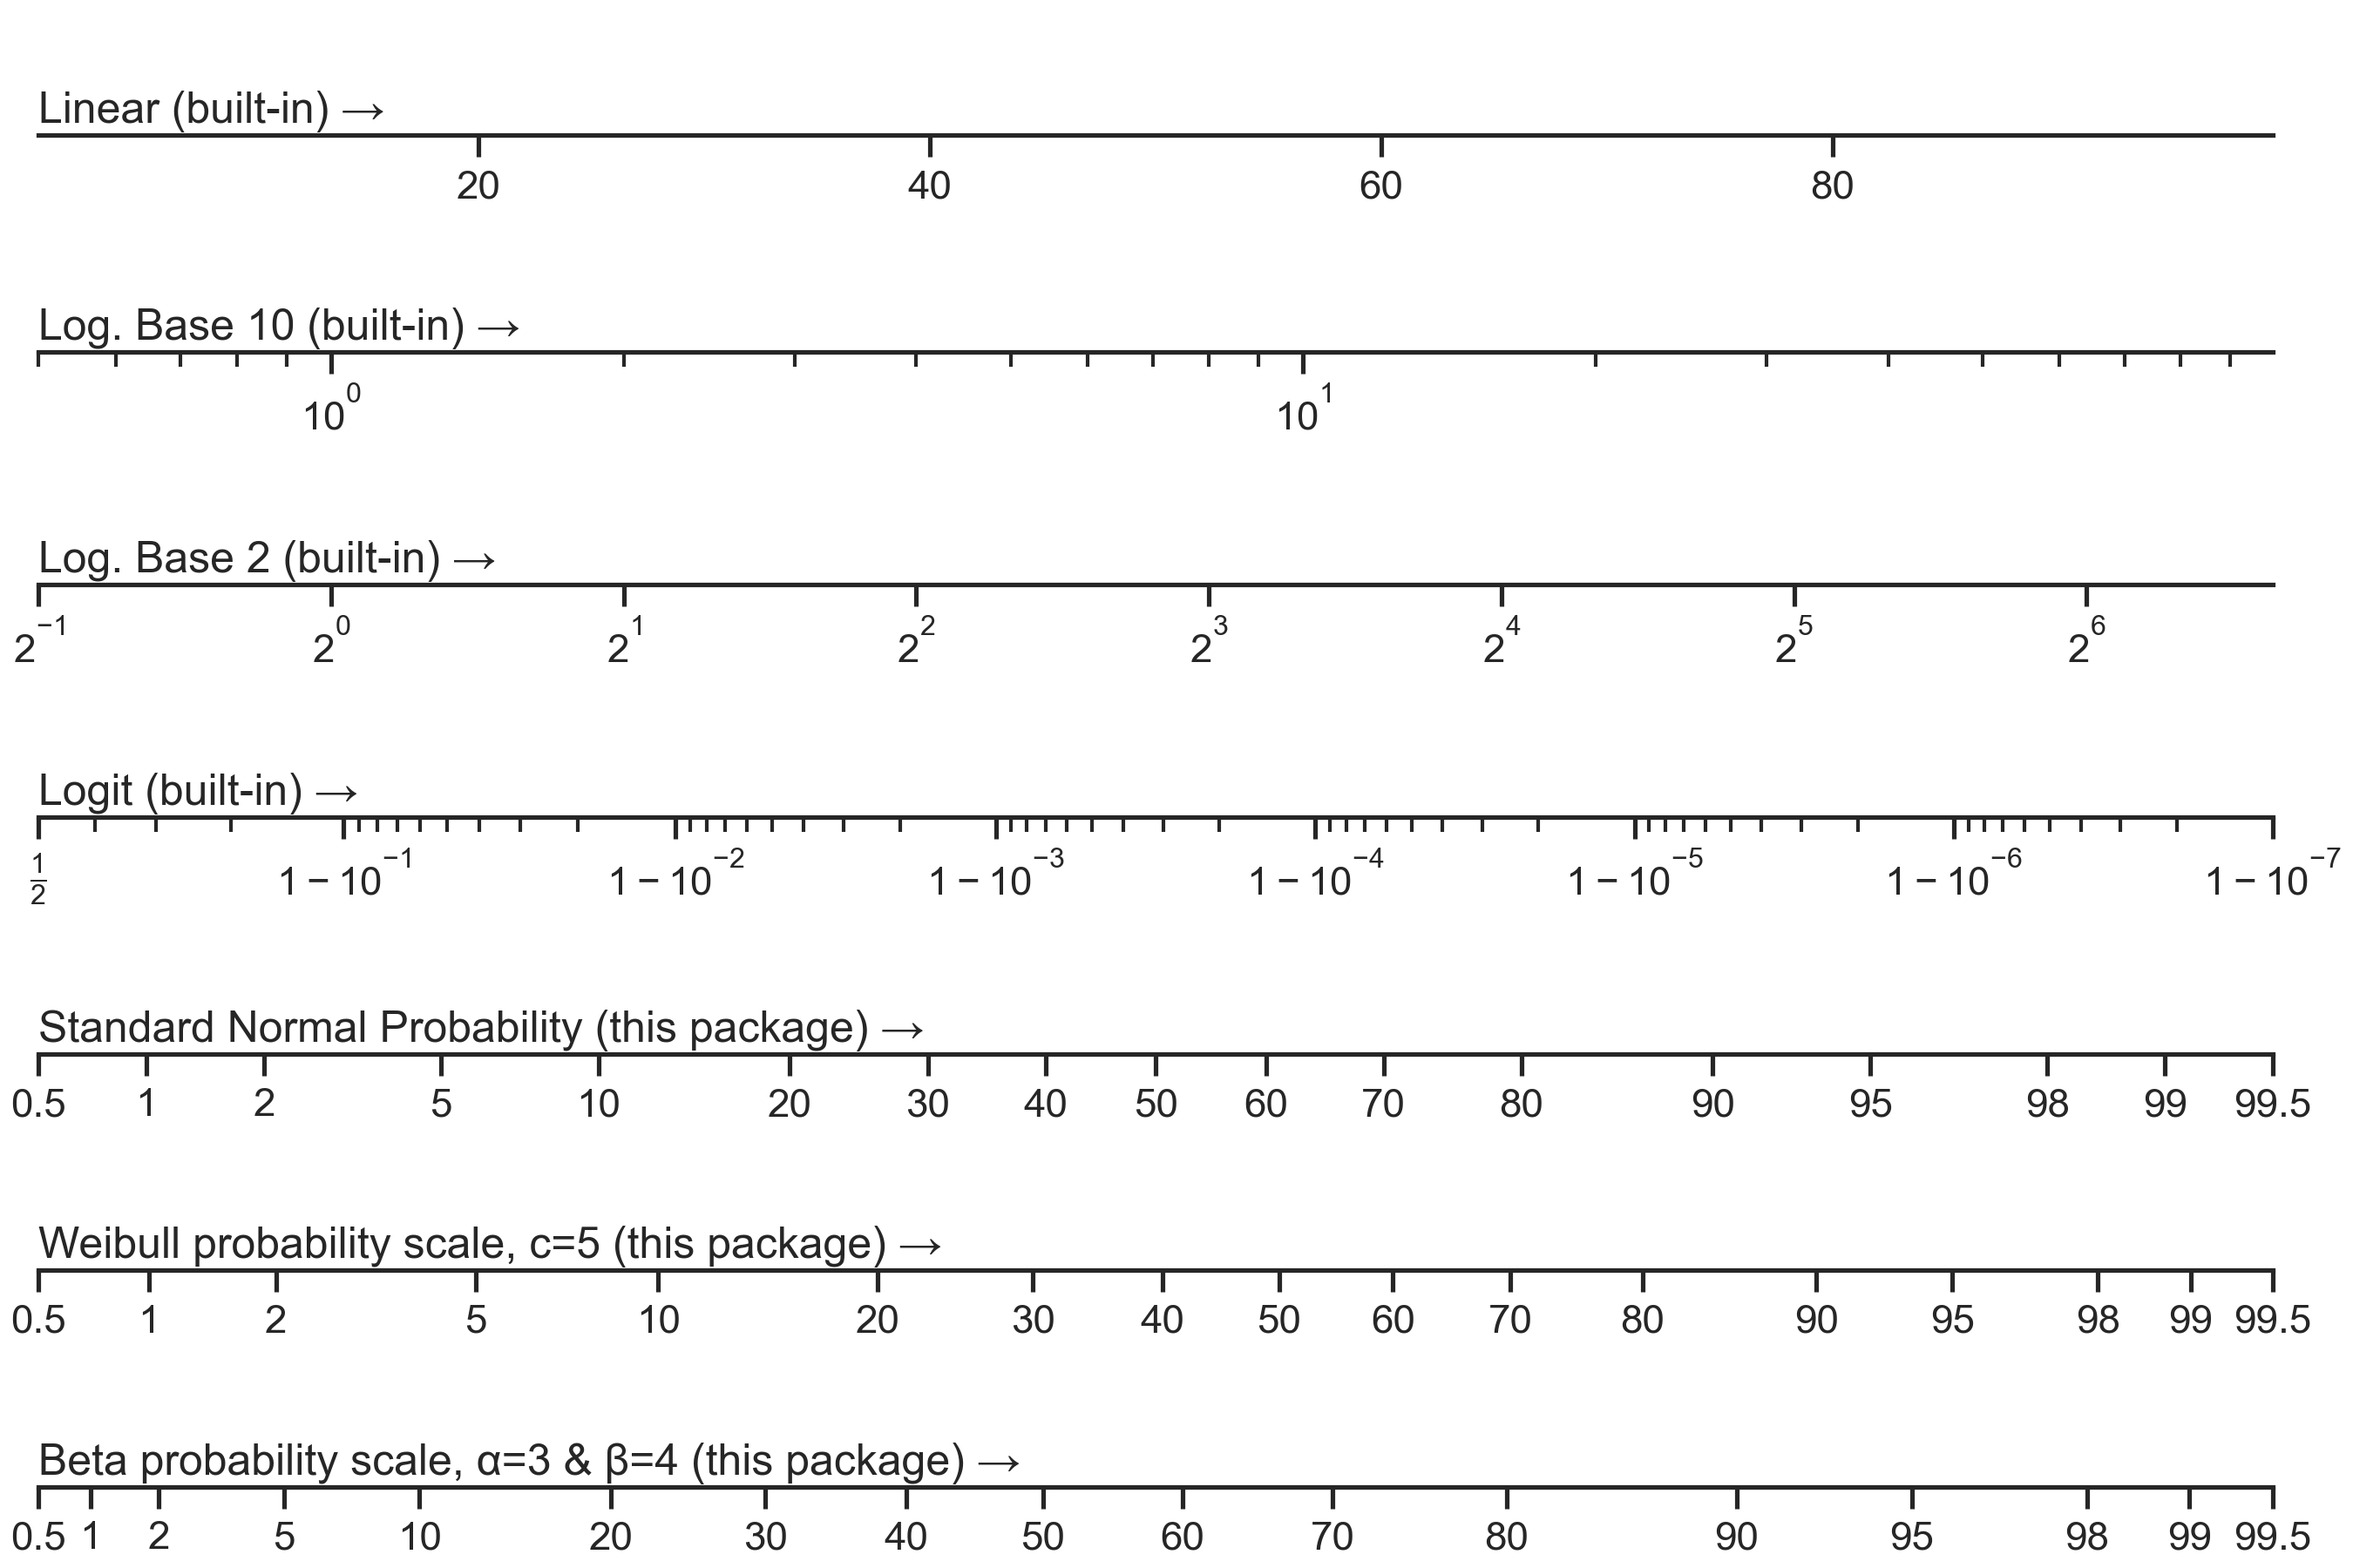
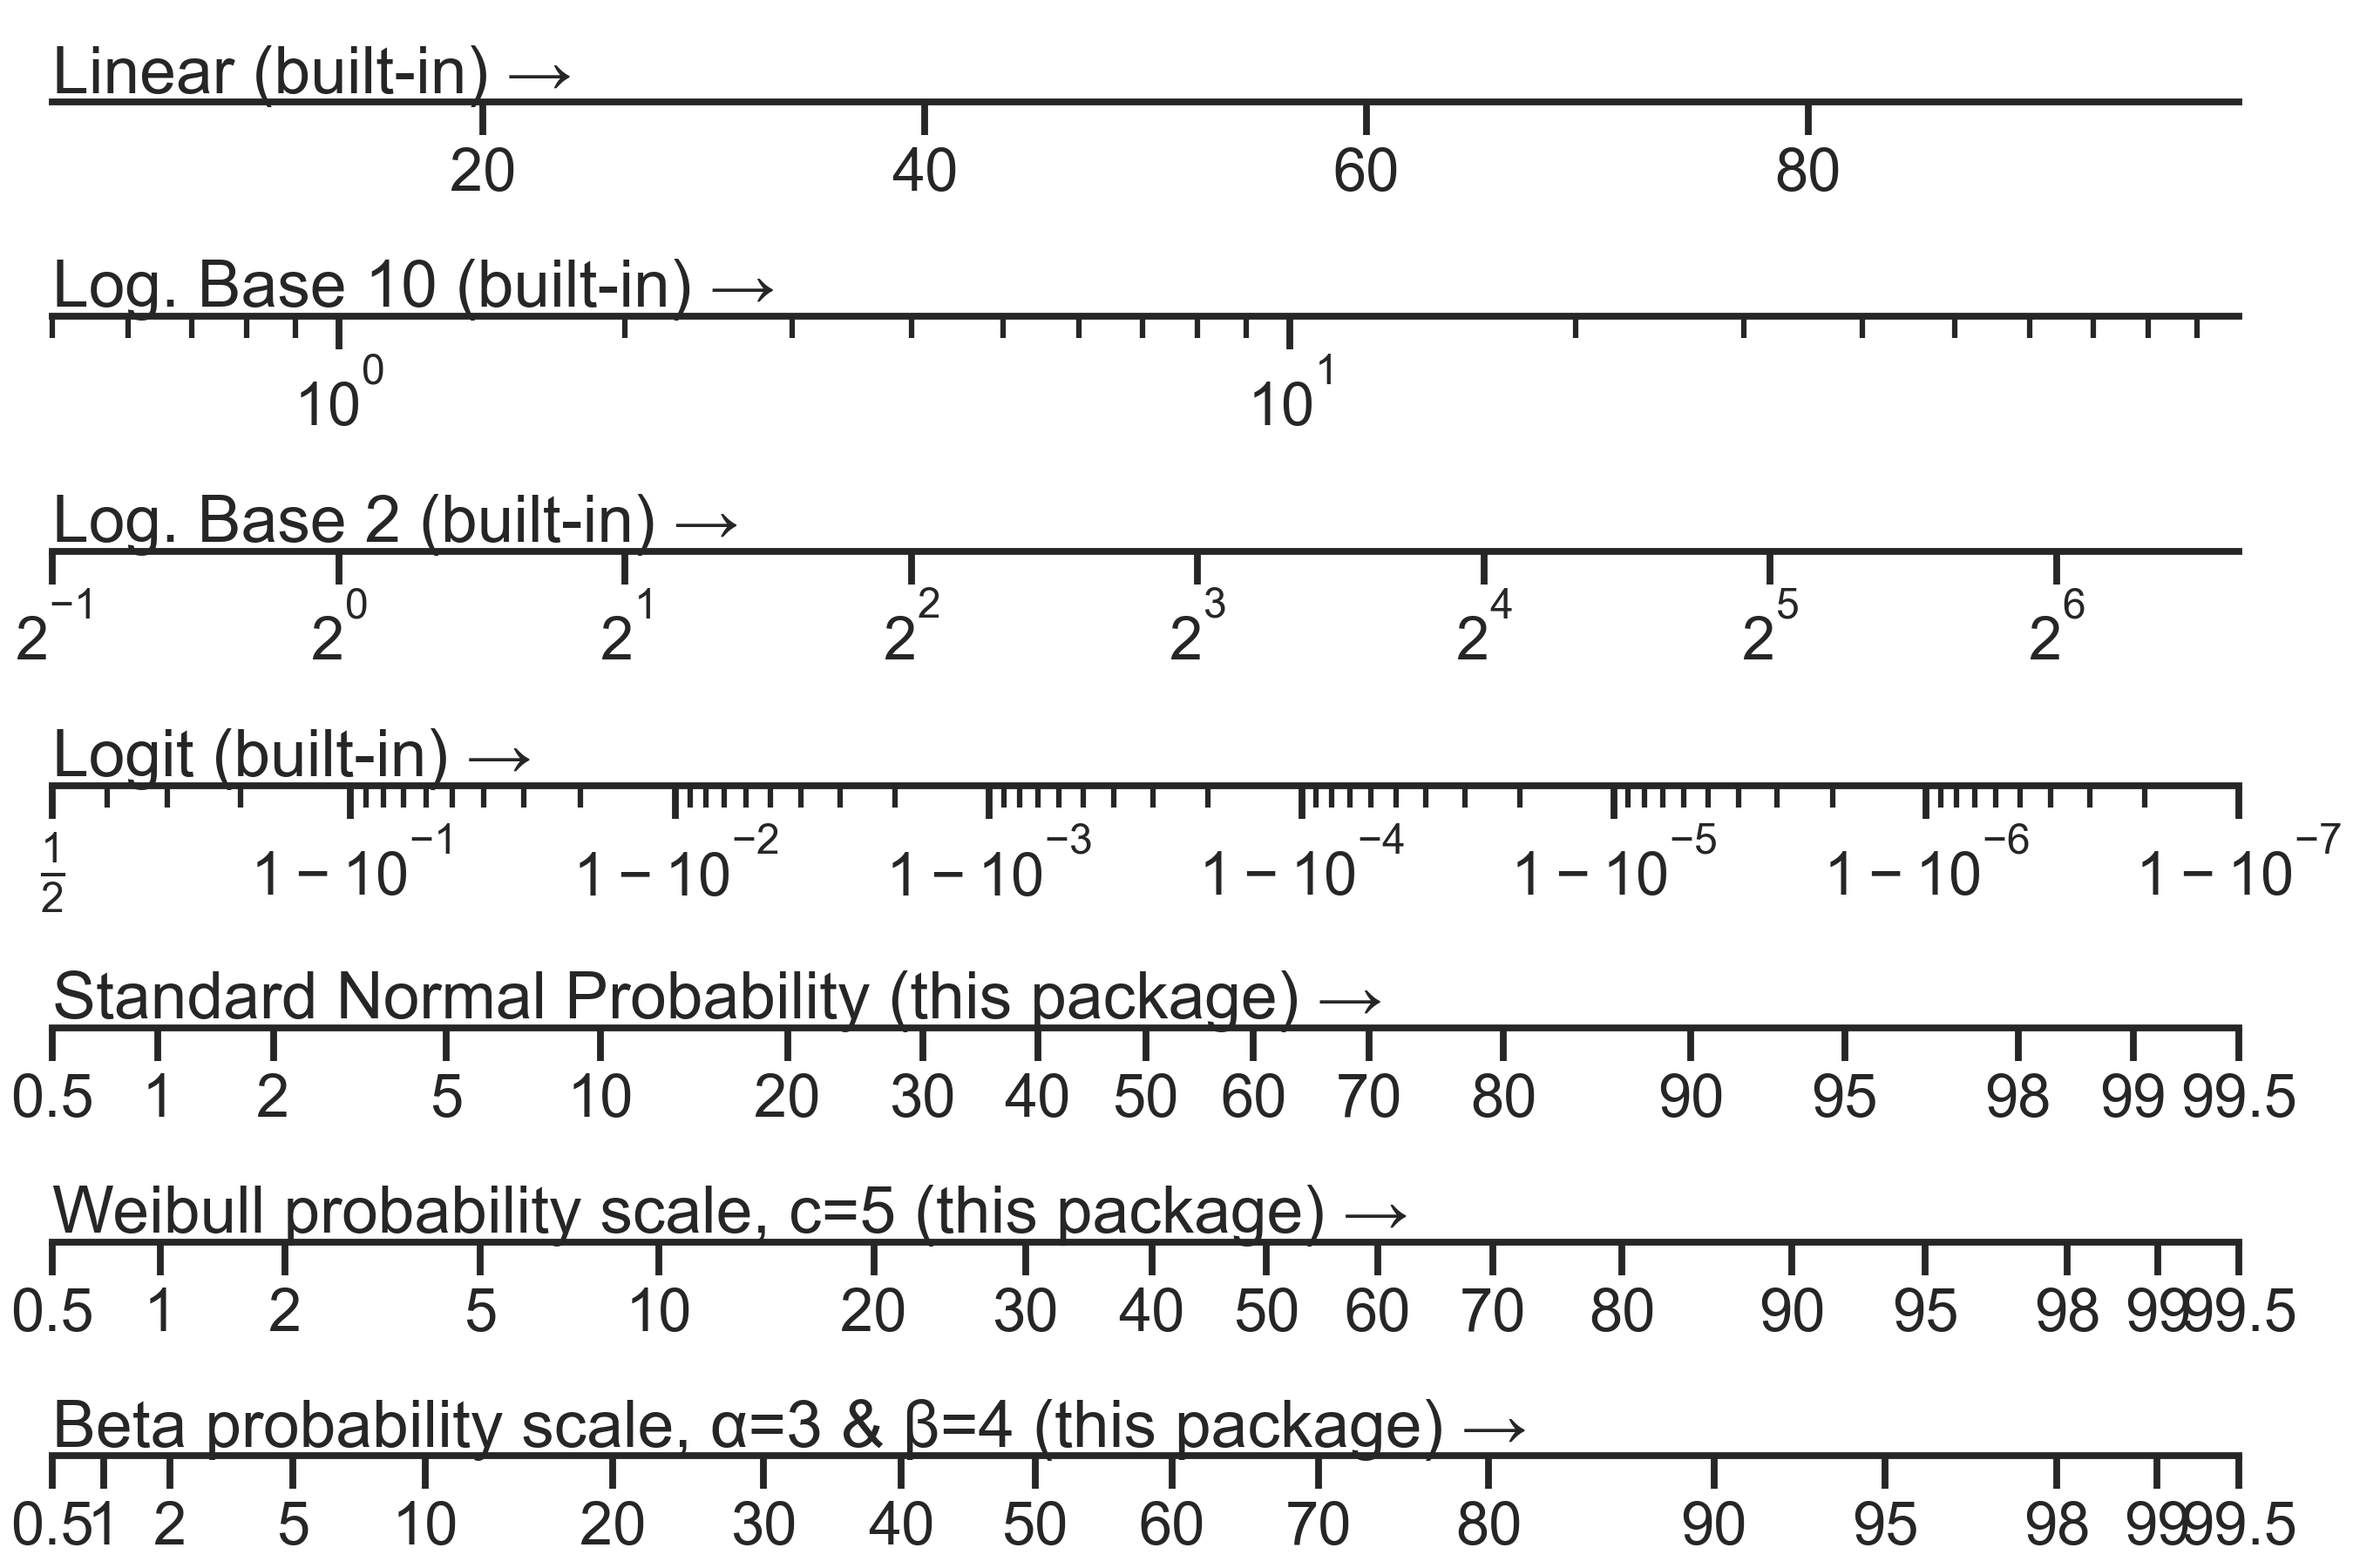
get away from test runner, compat w/ 3.12

diff --git a/docs/sphinxext/ipython_directive.py b/docs/sphinxext/ipython_directive.py
@@ -180,7 +180,6 @@ def block_parser(part, rgxin, rgxout, fmtin, fmtout):
     i = 0
     decorator = None
     while 1:
-
         if i == N:
             # nothing left to parse -- the last line
             break
@@ -215,7 +214,6 @@ def block_parser(part, rgxin, rgxout, fmtin, fmtout):
 
             rest = []
             while i < N:
-
                 # look ahead; if the next line is blank, or a comment, or
                 # an output line, we're done
 
@@ -278,7 +276,6 @@ class EmbeddedSphinxShell(object):
     """An embedded IPython instance to run inside Sphinx"""
 
     def __init__(self, exec_lines=None, state=None):
-
         self.cout = DecodingStringIO("")
 
         if exec_lines is None:
@@ -526,7 +523,6 @@ class EmbeddedSphinxShell(object):
         TAB = " " * 4
 
         if is_doctest and output is not None:
-
             found = output
             found = found.strip()
             submitted = data.strip()
@@ -693,7 +689,6 @@ class EmbeddedSphinxShell(object):
         ct = 0
 
         for lineno, line in enumerate(content):
-
             line_stripped = line.strip()
             if not len(line):
                 output.append(line)
@@ -770,7 +765,6 @@ class EmbeddedSphinxShell(object):
 
 
 class IPythonDirective(Directive):
-
     has_content = True
     required_arguments = 0
     optional_arguments = 4  # python, suppress, verbatim, doctest
@@ -973,7 +967,6 @@ def setup(app):
 
 # Simple smoke test, needs to be converted to a proper automatic test.
 def test():
-
     examples = [
         r"""
 In [9]: pwd

diff --git a/docs/examples/example.py b/docs/examples/example.py
@@ -1,4 +1,6 @@
 # %%
+from pathlib import Path
+
 from matplotlib import pyplot
 from scipy import stats
 import probscale  # nothing else needed
@@ -11,12 +13,18 @@ scales = [
     {"scale": {"value": "log", "base": 2}, "label": "Log. Base 2 (built-in)"},
     {"scale": {"value": "logit"}, "label": "Logit (built-in)"},
     {"scale": {"value": "prob"}, "label": "Standard Normal Probability (this package)"},
-    {"scale": {"value": "prob", "dist": weibull}, "label": "Weibull probability scale, c=5 (this package)"},
-    {"scale": {"value": "prob", "dist": beta}, "label": "Beta probability scale, α=3 & β=4 (this package)"},
+    {
+        "scale": {"value": "prob", "dist": weibull},
+        "label": "Weibull probability scale, c=5 (this package)",
+    },
+    {
+        "scale": {"value": "prob", "dist": beta},
+        "label": "Beta probability scale, α=3 & β=4 (this package)",
+    },
 ]
 
 N = len(scales)
-fig, axes = pyplot.subplots(nrows=N, figsize=(9, N-1), constrained_layout=True)
+fig, axes = pyplot.subplots(nrows=N, figsize=(9, N - 1), constrained_layout=True)
 for scale, ax in zip(scales, axes.flat):
     ax.set_xscale(**scale["scale"])
     ax.text(0.0, 0.1, scale["label"] + " →", transform=ax.transAxes)
@@ -26,4 +34,5 @@ for scale, ax in zip(scales, axes.flat):
     ax.spines.right.set_visible(False)
     ax.spines.top.set_visible(False)
 
-fig.savefig("../img/example.png", dpi=300)
+outpath = Path(__file__).parent.joinpath("../img/example.png").resolve()
+fig.savefig(outpath, dpi=300)

diff --git a/docs/sphinxext/plot_generator.py b/docs/sphinxext/plot_generator.py
@@ -164,10 +164,8 @@ class ExampleGenerator(object):
         if not op.exists(outfilename) or (
             op.getmtime(outfilename) < op.getmtime(filename)
         ):
-
             self.exec_file()
         else:
-
             print("skipping {0}".format(self.filename))
 
     @property
@@ -226,8 +224,7 @@ class ExampleGenerator(object):
         return ""
 
     def extract_docstring(self):
-        """ Extract a module-level docstring
-        """
+        """Extract a module-level docstring"""
         lines = open(self.filename).readlines()
         start_row = 0
         if lines[0].startswith("#!"):
@@ -332,7 +329,6 @@ def main(app):
 
     # Write individual example files
     for filename in glob.glob(op.join(source_dir, "*.py")):
-
         ex = ExampleGenerator(filename, target_dir)
 
         banner_data.append(

diff --git a/docs/sphinxext/plot_directive.py b/docs/sphinxext/plot_directive.py
@@ -158,7 +158,6 @@ try:
     def format_template(template, **kw):
         return jinja2.Template(template).render(**kw)
 
-
 except ImportError:
     import jinja
 
@@ -652,7 +651,6 @@ def render_figures(
     close_figs = not context or close_figs
 
     for i, code_piece in enumerate(code_pieces):
-
         if not context or config.plot_apply_rcparams:
             clear_state(config.plot_rcparams, close_figs)
         elif close_figs:

diff --git a/setup.py b/setup.py
@@ -37,6 +37,7 @@ CLASSIFIERS = [
     "Programming Language :: Python :: 3.9",
     "Programming Language :: Python :: 3.10",
     "Programming Language :: Python :: 3.11",
+    "Programming Language :: Python :: 3.12",
 ]
 INSTALL_REQUIRES = ["numpy", "matplotlib"]
 PACKAGE_DATA = {

diff --git a/README.md b/README.md
@@ -2,11 +2,9 @@
 
 Real probability scales for matplotlib
 
-![Code Style](https://github.com/matplotlib/mpl-probscale/workflows/black/badge.svg)
 ![Coverage](https://github.com/matplotlib/mpl-probscale/workflows/Coverage%20via%20codecov/badge.svg)
 ![Linter](https://github.com/matplotlib/mpl-probscale/workflows/Lint%20with%20flake8/badge.svg)
-![Basic Tests](https://github.com/matplotlib/mpl-probscale/workflows/Basic%20unit%20tests/badge.svg)
-![Image Comparisons](https://github.com/matplotlib/mpl-probscale/workflows/Image%20comparison%20tests/badge.svg)
+![Tests](https://github.com/matplotlib/mpl-probscale/workflows/Image%20comparison%20tests/badge.svg)
 
 [Sphinx Docs](http://matplotlib.org/mpl-probscale/)
 
@@ -30,20 +28,6 @@ cd mpl-probscale
 pip install -e .
 ```
 
-### Additional Depedencies
-
-This library depends on **pytest** framework.
-The current release version does not have it listed as a hard dependency, however.
-So for now you will need to install ``pytest`` yourself to use mpl-probscale:
-
-`pip install pytest`
-
-or
-
-`conda install pytest --channel=conda-forge`
-
-In the next release, this depedency will be made optional.
-
 ## Quick start
 
 Simply importing `probscale` lets you use probability scales in your matplotlib figures:
@@ -51,9 +35,6 @@ Simply importing `probscale` lets you use probability scales in your matplotlib 
 ```python
 import matplotlib.pyplot as plt
 import probscale
-import seaborn
-clear_bkgd = {'axes.facecolor':'none', 'figure.facecolor':'none'}
-seaborn.set(style='ticks', context='notebook', rc=clear_bkgd)
 
 fig, ax = plt.subplots(figsize=(8, 4))
 ax.set_ylim(1e-2, 1e2)
@@ -61,7 +42,6 @@ ax.set_yscale('log')
 
 ax.set_xlim(0.5, 99.5)
 ax.set_xscale('prob')
-seaborn.despine(fig=fig)
 ```
 
 ![Alt text](docs/img/example.png "Example axes")

diff --git a/CONTRIBUTING.rst b/CONTRIBUTING.rst
@@ -79,7 +79,7 @@ Ready to contribute? Here's how to set up `probscale` for local development.
 
 5. When you're done making changes, check that your changes pass flake8 and the tests, including testing other Python versions with tox::
 
-    $ python check_probscale.py --mpl --pep8 --cov
+    $ python -m pytest --mpl --pep8 --cov
 
 6. Commit your changes and push your branch to GitHub::
 
@@ -114,35 +114,6 @@ To run a subset of tests::
 
 $ py.test tests.test_probscale
 
-
-Configuring Sublime Text 3 to run the tests
-~~~~~~~~~~~~~~~~~~~~~~~~~~~~~~~~~~~~~~~~~~~
-
-In Sublime, got to Tools -> Build System -> New Build System.
-Then add the following configuration and save as "probscale.sublime-build"::
-
-    {
-        "working_dir": "<path to the git repository>",
-        "cmd": "<full path of the python executable> check_probscale.py --verbose <other pytest options>",
-    }
-
-
-Configuring Atom to run the tests
-~~~~~~~~~~~~~~~~~~~~~~~~~~~~~~~~~
-
-In Atom, install the build_ package, create a new file called ".atom-build.yml" in the
-top level of the project directory, and add the following contents::
-
-    cmd: "<full path of the python executable>"
-    name: "probscale"
-    args:
-      - check_probscale.py
-      - --verbose
-      - <other pytest options ...>
-    cwd: <path to the git repository>
-    sh: false
-    keymap: ctrl-b
-    atomCommandName: namespace:testprobscale
 
 After this, hitting ctrl+b in either text editor will run the test suite.
 
